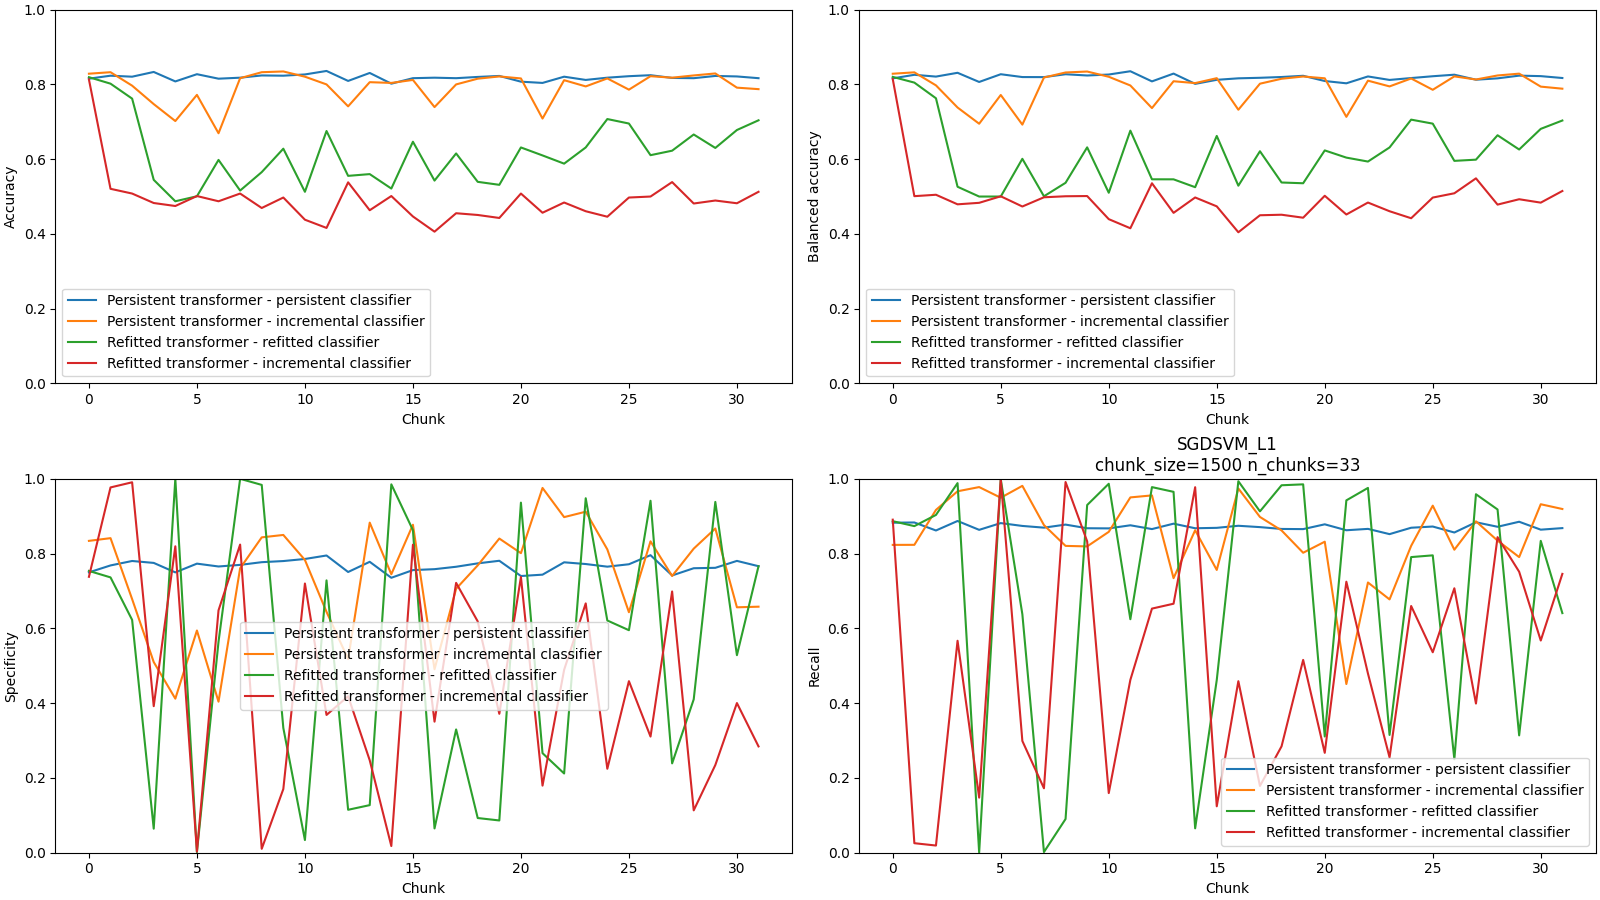
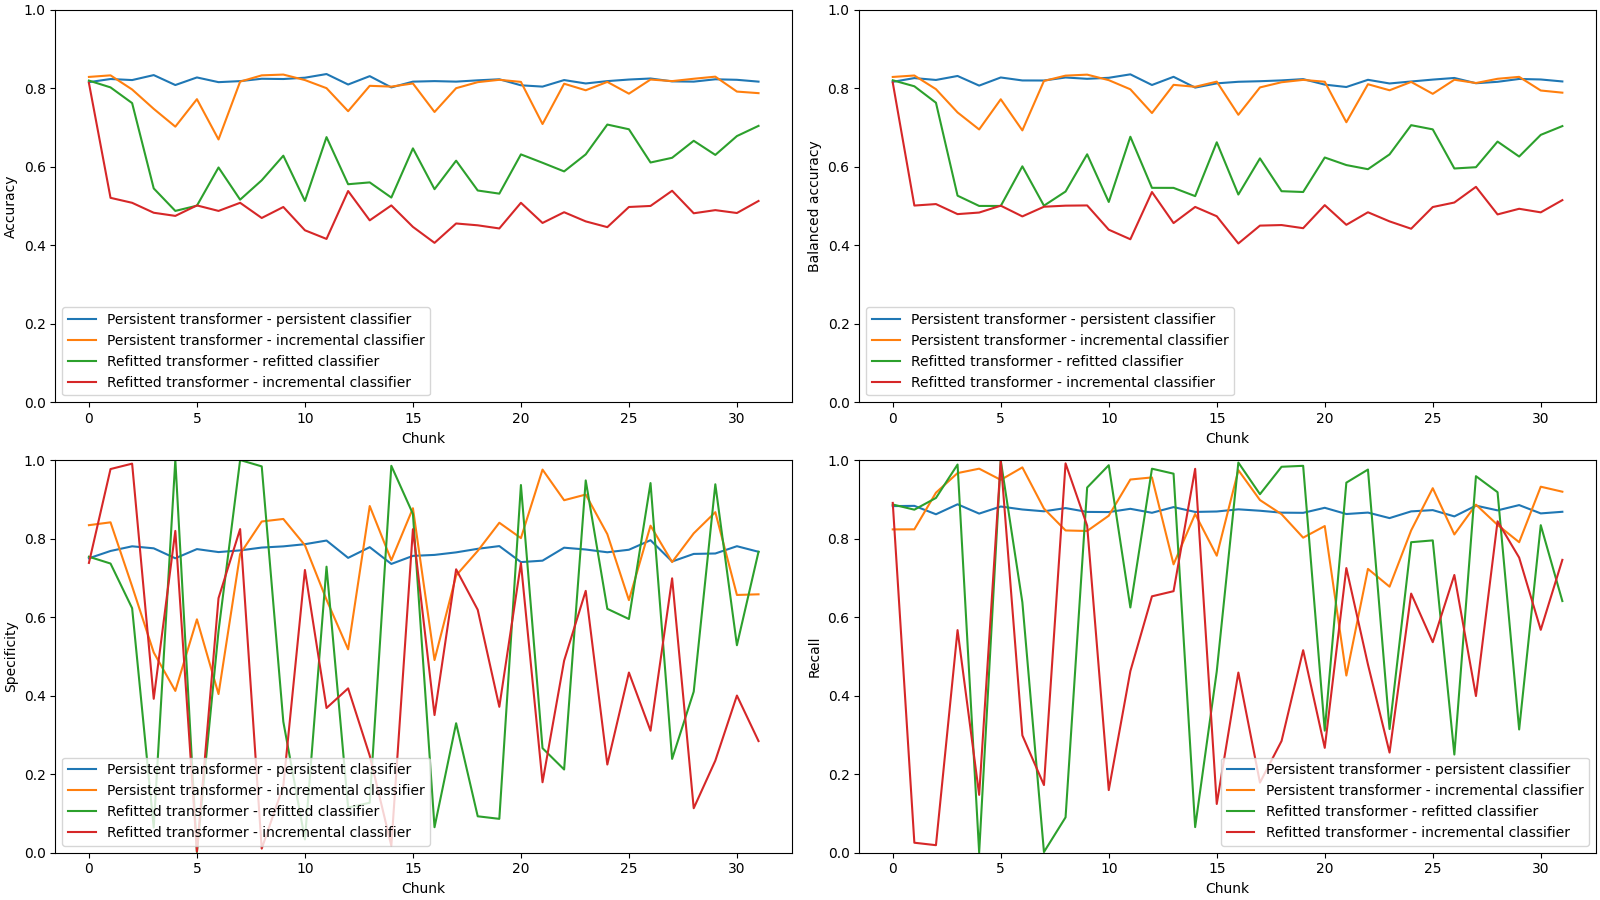
finish

diff --git a/experiment_sgdsvm_l2.py b/experiment_sgdsvm_l2.py
@@ -7,11 +7,10 @@ from StreamClassifier import StreamClassifier
 
 def sgdsvm_l2_experiment():
     chunks = [(250,200),(500, 100), (750, 66), (1000, 50), (1500,33), (2000, 25)]
-    # chunks = [(10,10),(20,10)]
 
     experiment_name = "SGDSVM_L2"
 
-    for c in chunks:#     
+    for c in chunks:
         clfs = [
             StreamClassifier(TfidfTransformer(), SGDClassifier(penalty='l2'), is_transformer_refit=False, classifier_type='single'),
             StreamClassifier(TfidfTransformer(), SGDClassifier(penalty='l2'), is_transformer_refit=False, classifier_type='partial'),

diff --git a/plot_by_scenarios.py b/plot_by_scenarios.py
@@ -5,8 +5,8 @@ from scenarios import SCENARIOS, METRICS
 
 def plot_by_scenarios(classifier: str, chunk_size: int, n_chunks: int):
     scores = np.load(f'scores/{classifier}_scores_{chunk_size}_{n_chunks}.npy')
-    fig,axs = plt.subplots(2,2, figsize=(16,9), layout='constrained')
     plt.title(f'{classifier}\nchunk_size={chunk_size} n_chunks={n_chunks}')
+    fig,axs = plt.subplots(2,2, figsize=(16,9), layout='compressed')
     for ax, (m,metric) in zip(axs.flat, enumerate(METRICS)):
         ax.set_ylim((0,1))
         ax.set_xlabel('Chunk')

diff --git a/main.py b/main.py
@@ -3,7 +3,7 @@ from experiment_gaussianNB import gaussianNB_experiment
 from experiment_sgdsvm_l1 import sgdsvm_l1_experiment
 from experiment_sgdsvm_l2 import sgdsvm_l2_experiment
 
-gaussianNB_experiment()
+#gaussianNB_experiment()
 #sgdsvm_l1_experiment()
 #sgdsvm_l2_experiment()
 #logistic_regression_experiment()

diff --git a/generate_plots.py b/generate_plots.py
@@ -17,9 +17,9 @@ chunks = [
     (2000, 25)
 ]
 
-for clf in clfs:
-    for c in chunks:
-        plot_scores(clf,c[0],c[1])
+# for clf in clfs:
+#     for c in chunks:
+#         plot_scores(clf,c[0],c[1])
 
 for clf in clfs:
     for c in chunks:
